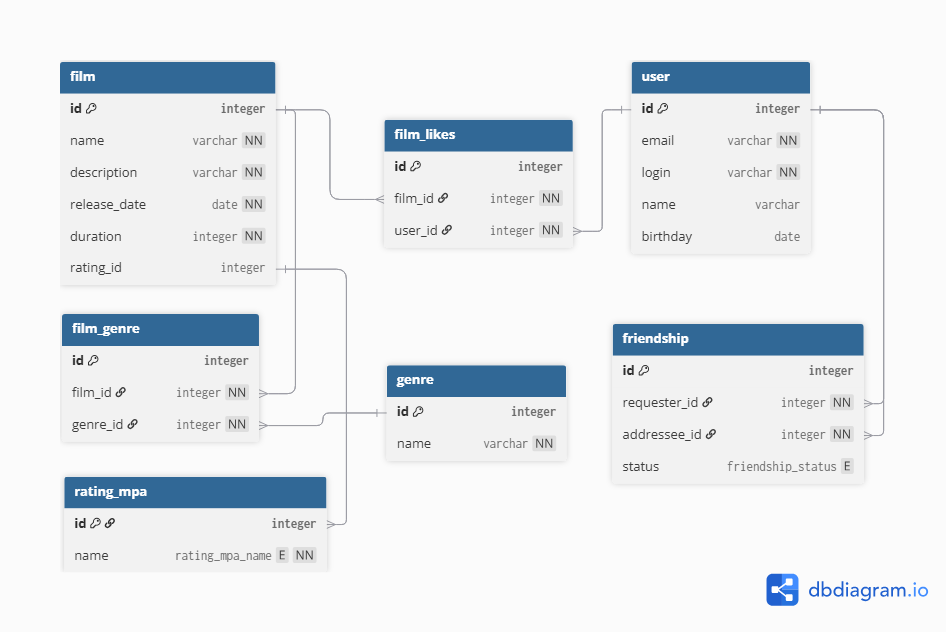
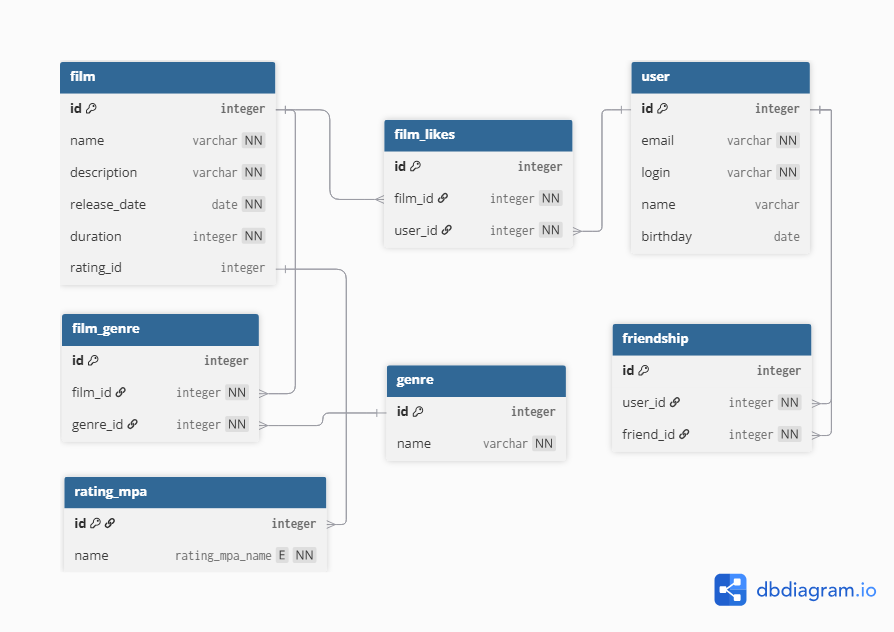
Работа с друзьями пользователей теперь реализована через базу данных и репозиторий DbFriendshipStorage

diff --git a/src/main/java/ru/yandex/practicum/filmorate/service/UserService.java b/src/main/java/ru/yandex/practicum/filmorate/service/UserService.java
@@ -4,28 +4,46 @@ import lombok.extern.slf4j.Slf4j;
 import org.springframework.beans.factory.annotation.Qualifier;
 import org.springframework.stereotype.Service;
 import ru.yandex.practicum.filmorate.exception.ValidationException;
+import ru.yandex.practicum.filmorate.model.Friendship;
 import ru.yandex.practicum.filmorate.model.User;
+import ru.yandex.practicum.filmorate.storage.FriendshipStorage;
 import ru.yandex.practicum.filmorate.storage.UserStorage;
 
 import java.util.Collection;
 import java.util.HashSet;
+import java.util.List;
 
 @Service
 @Slf4j
 public class UserService {
 
     private final UserStorage userStorage;
+    private final FriendshipStorage friendshipStorage;
 
-    public UserService(@Qualifier("dbUserStorage") UserStorage userStorage) {
+    public UserService(
+            @Qualifier("dbUserStorage") UserStorage userStorage,
+            FriendshipStorage friendshipStorage
+    ) {
         this.userStorage = userStorage;
+        this.friendshipStorage = friendshipStorage;
     }
 
     public User getUserById(long id) {
-        return userStorage.getUserById(id);
+        User user = userStorage.getUserById(id);
+        friendshipStorage.getFriendsOfUser(id).forEach(friendship -> {
+            user.addFriend(friendship.getFriendId());
+        });
+        return user;
     }
 
     public Collection<User> getAllUsers() {
-        return userStorage.getAllUsers();
+        Collection<User> users = userStorage.getAllUsers();
+        users.forEach(user -> {
+            friendshipStorage.getFriendsOfUser(user.getId()).forEach(friendship -> {
+                user.addFriend(friendship.getFriendId());
+            });
+        });
+        return users;
     }
 
     public User addUser(User newUser) {
@@ -77,33 +95,30 @@ public class UserService {
 
 
     public void addFriend(long userId, long friendId) {
-        User user = userStorage.getUserById(userId);
-        User friend = userStorage.getUserById(friendId);
-        user.addFriend(friendId);
-        friend.addFriend(userId);
+        friendshipStorage.addFriend(userId, friendId);
         log.info("Пользователь {} добавил в друзья пользователя {}", userId, friendId);
     }
 
     public void deleteFriend(long userId, long friendId) {
-        User user = userStorage.getUserById(userId);
-        User friend = userStorage.getUserById(friendId);
-        user.deleteFriend(friendId);
-        friend.deleteFriend(userId);
+        friendshipStorage.deleteFriend(userId, friendId);
         log.info("Пользователь {} удалил из друзей пользователя {}", userId, friendId);
     }
 
     public Collection<User> getFriendsOfUser(long userId) {
-        User user = userStorage.getUserById(userId);
-        return user.getFriends().stream()
-                .map(userStorage::getUserById)
+        return friendshipStorage.getFriendsOfUser(userId).stream()
+                .map(friendship -> userStorage.getUserById(friendship.getUserId()))
                 .toList();
     }
 
     public Collection<User> getCommonFriends(long userId1, long userId2) {
-        User user1 = userStorage.getUserById(userId1);
-        User user2 = userStorage.getUserById(userId2);
-        HashSet<Long> commonFriends = new HashSet<>(user1.getFriends());
-        commonFriends.retainAll(user2.getFriends());
+        List<Long> friendsIds1 = friendshipStorage.getFriendsOfUser(userId1).stream()
+                .map(Friendship::getFriendId)
+                .toList();
+        List<Long> friendsIds2 = friendshipStorage.getFriendsOfUser(userId2).stream()
+                .map(Friendship::getFriendId)
+                .toList();
+        HashSet<Long> commonFriends = new HashSet<>(friendsIds1);
+        commonFriends.retainAll(friendsIds2);
         return commonFriends.stream()
                 .map(userStorage::getUserById)
                 .toList();

diff --git a/src/main/java/ru/yandex/practicum/filmorate/storage/DbFriendshipStorage.java b/src/main/java/ru/yandex/practicum/filmorate/storage/DbFriendshipStorage.java
@@ -1,0 +1,40 @@
+package ru.yandex.practicum.filmorate.storage;
+
+import lombok.extern.slf4j.Slf4j;
+import org.springframework.jdbc.core.JdbcTemplate;
+import org.springframework.stereotype.Repository;
+import ru.yandex.practicum.filmorate.model.Friendship;
+import ru.yandex.practicum.filmorate.model.User;
+import ru.yandex.practicum.filmorate.storage.mappers.FriendshipRowMapper;
+
+import java.util.Collection;
+import java.util.List;
+
+@Repository
+@Slf4j
+public class DbFriendshipStorage extends DbBaseStorage<Friendship> implements FriendshipStorage {
+
+    private final static String ADD_FRIEND_QUERY = "INSERT INTO friendship (user_id, friend_id) VALUES (?, ?)";
+    private final static String DELETE_FRIEND_QUERY = "DELETE FROM friendship WHERE user_id = ? AND friend_id = ?";
+    private final static String GET_FRIENDS_OF_USER_QUERY = "SELECT * FROM friendship WHERE user_id = ?";
+
+    public DbFriendshipStorage(JdbcTemplate jdbc, FriendshipRowMapper friendshipRowMapper) {
+        super(jdbc, friendshipRowMapper);
+    }
+
+    @Override
+    public void addFriend(long userId, long friendId) {
+        update(ADD_FRIEND_QUERY, userId, friendId);
+    }
+
+    @Override
+    public void deleteFriend(long userId, long friendId) {
+        update(DELETE_FRIEND_QUERY, userId, friendId);
+    }
+
+    @Override
+    public Collection<Friendship> getFriendsOfUser(long userId) {
+        return findMany(GET_FRIENDS_OF_USER_QUERY, userId);
+    }
+
+}

diff --git a/src/main/java/ru/yandex/practicum/filmorate/storage/DbUserStorage.java b/src/main/java/ru/yandex/practicum/filmorate/storage/DbUserStorage.java
@@ -3,12 +3,12 @@ package ru.yandex.practicum.filmorate.storage;
 import lombok.extern.slf4j.Slf4j;
 import org.springframework.jdbc.core.JdbcTemplate;
 import org.springframework.jdbc.core.RowMapper;
+import org.springframework.jdbc.core.namedparam.NamedParameterJdbcTemplate;
 import org.springframework.stereotype.Repository;
 import ru.yandex.practicum.filmorate.exception.NotFoundException;
 import ru.yandex.practicum.filmorate.model.User;
 
-import java.util.Collection;
-import java.util.Optional;
+import java.util.*;
 
 @Repository("dbUserStorage")
 @Slf4j
@@ -66,4 +66,5 @@ public class DbUserStorage extends DbBaseStorage<User> implements UserStorage {
     public Collection<User> getAllUsers() {
         return findMany(FIND_ALL_QUERY);
     }
+
 }

diff --git a/src/main/java/ru/yandex/practicum/filmorate/storage/mappers/FriendshipRowMapper.java b/src/main/java/ru/yandex/practicum/filmorate/storage/mappers/FriendshipRowMapper.java
@@ -1,0 +1,20 @@
+package ru.yandex.practicum.filmorate.storage.mappers;
+
+import org.springframework.jdbc.core.RowMapper;
+import org.springframework.stereotype.Component;
+import ru.yandex.practicum.filmorate.model.Friendship;
+
+import java.sql.ResultSet;
+import java.sql.SQLException;
+
+@Component
+public class FriendshipRowMapper implements RowMapper<Friendship> {
+    @Override
+    public Friendship mapRow(ResultSet rs, int rowNum) throws SQLException {
+        Friendship friendship = new Friendship();
+        friendship.setId(rs.getLong("id"));
+        friendship.setUserId(rs.getLong("user_id"));
+        friendship.setFriendId(rs.getLong("friend_id"));
+        return friendship;
+    }
+}

diff --git a/src/main/java/ru/yandex/practicum/filmorate/storage/mappers/FilmRatingRowMapper.java b/src/main/java/ru/yandex/practicum/filmorate/storage/mappers/FilmRatingRowMapper.java
@@ -1,11 +1,13 @@
 package ru.yandex.practicum.filmorate.storage.mappers;
 
 import org.springframework.jdbc.core.RowMapper;
+import org.springframework.stereotype.Component;
 import ru.yandex.practicum.filmorate.model.FilmRating;
 
 import java.sql.ResultSet;
 import java.sql.SQLException;
 
+@Component
 public class FilmRatingRowMapper implements RowMapper<FilmRating> {
     @Override
     public FilmRating mapRow(ResultSet rs, int rowNum) throws SQLException {

diff --git a/src/main/java/ru/yandex/practicum/filmorate/storage/mappers/GenreRowMapper.java b/src/main/java/ru/yandex/practicum/filmorate/storage/mappers/GenreRowMapper.java
@@ -1,11 +1,13 @@
 package ru.yandex.practicum.filmorate.storage.mappers;
 
 import org.springframework.jdbc.core.RowMapper;
+import org.springframework.stereotype.Component;
 import ru.yandex.practicum.filmorate.model.Genre;
 
 import java.sql.ResultSet;
 import java.sql.SQLException;
 
+@Component
 public class GenreRowMapper implements RowMapper<Genre> {
     @Override
     public Genre mapRow(ResultSet rs, int rowNum) throws SQLException {

diff --git a/src/main/java/ru/yandex/practicum/filmorate/model/Friendship.java b/src/main/java/ru/yandex/practicum/filmorate/model/Friendship.java
@@ -1,7 +1,13 @@
 package ru.yandex.practicum.filmorate.model;
 
+import lombok.Data;
+import lombok.EqualsAndHashCode;
+import lombok.ToString;
+
+@Data
+@EqualsAndHashCode(callSuper = true)
+@ToString(callSuper = true)
 public class Friendship extends BaseModel {
-    private Long requesterId;
-    private Long addresseeId;
-    private FriendshipStatus status;
+    private Long userId;
+    private Long friendId;
 }

diff --git a/src/main/java/ru/yandex/practicum/filmorate/storage/DbFilmRatingStorage.java b/src/main/java/ru/yandex/practicum/filmorate/storage/DbFilmRatingStorage.java
@@ -12,7 +12,7 @@ import java.util.Optional;
 
 @Repository
 @Slf4j
-public class DbFilmRatingStorage extends DbBaseStorage<FilmRating> {
+public class DbFilmRatingStorage extends DbBaseStorage<FilmRating> implements FilmRatingStorage {
 
     private final static String GET_BY_ID_QUERY = "SELECT * FROM rating_mpa WHERE id = ?";
     private final static String GET_ALL_QUERY = "SELECT * FROM rating_mpa";

diff --git a/src/main/java/ru/yandex/practicum/filmorate/storage/DbGenreStorage.java b/src/main/java/ru/yandex/practicum/filmorate/storage/DbGenreStorage.java
@@ -12,7 +12,7 @@ import java.util.Optional;
 
 @Repository
 @Slf4j
-public class DbGenreStorage extends DbBaseStorage<Genre> {
+public class DbGenreStorage extends DbBaseStorage<Genre> implements GenreStorage {
 
     private final static String GET_BY_ID_QUERY = "SELECT * FROM genre WHERE id = ?";
     private final static String GET_ALL_QUERY = "SELECT * FROM genre";

diff --git a/src/main/java/ru/yandex/practicum/filmorate/storage/FriendshipStorage.java b/src/main/java/ru/yandex/practicum/filmorate/storage/FriendshipStorage.java
@@ -1,0 +1,11 @@
+package ru.yandex.practicum.filmorate.storage;
+
+import ru.yandex.practicum.filmorate.model.Friendship;
+
+import java.util.Collection;
+
+public interface FriendshipStorage {
+    void addFriend(long userId, long friendId);
+    void deleteFriend(long userId, long friendId);
+    Collection<Friendship> getFriendsOfUser(long userId);
+}
